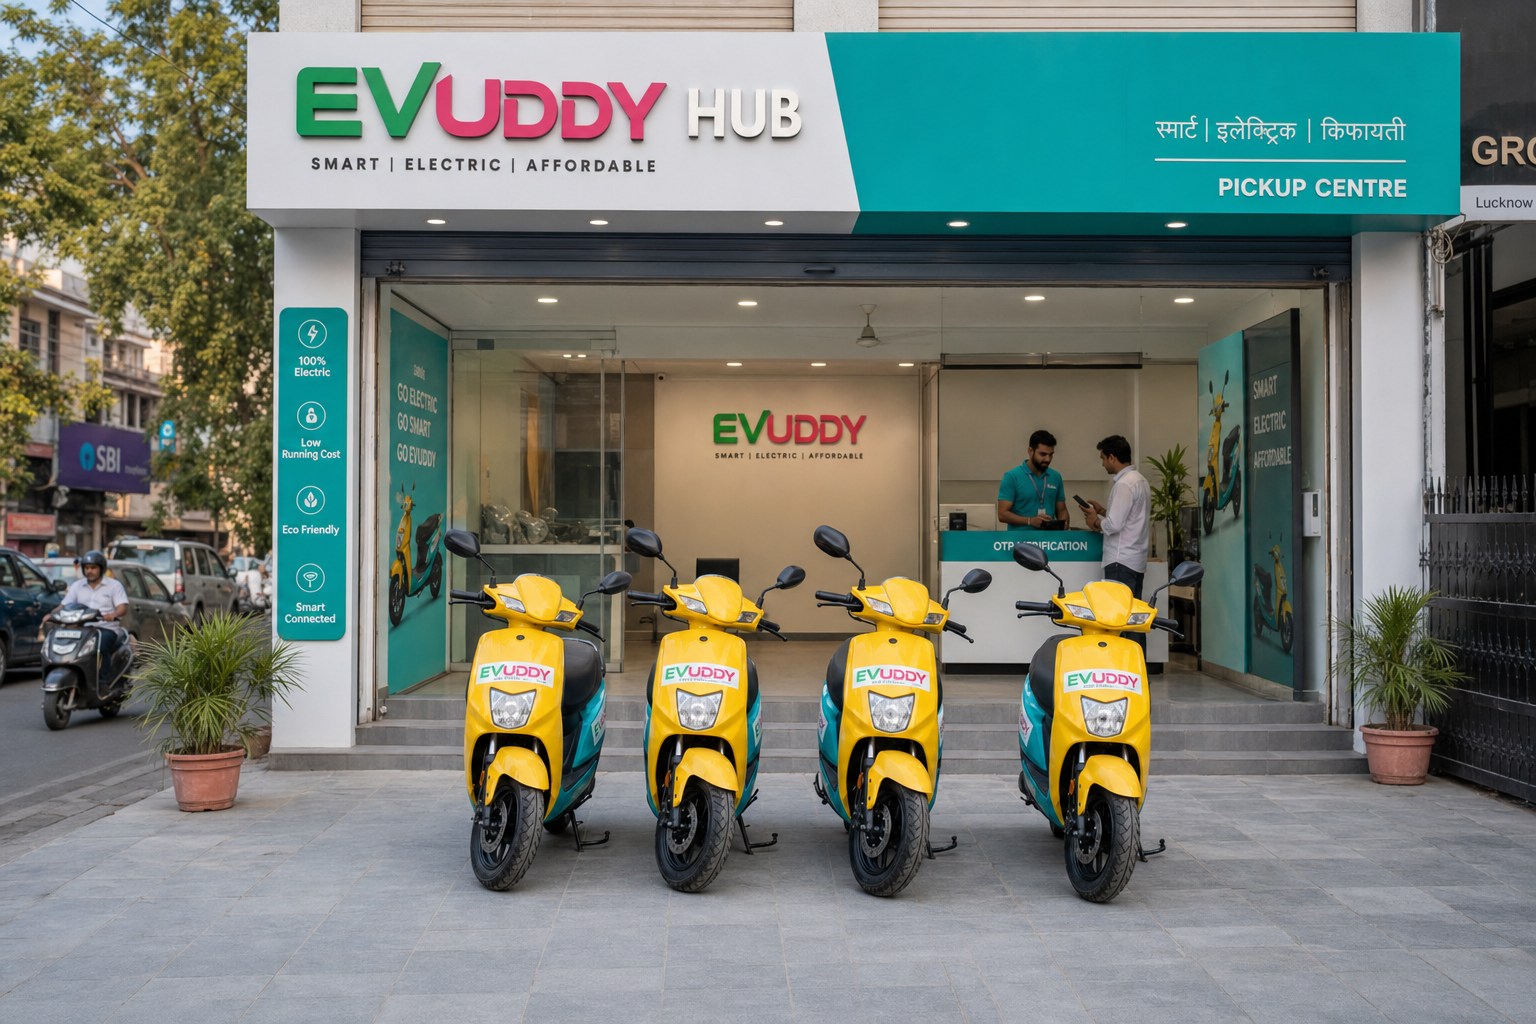
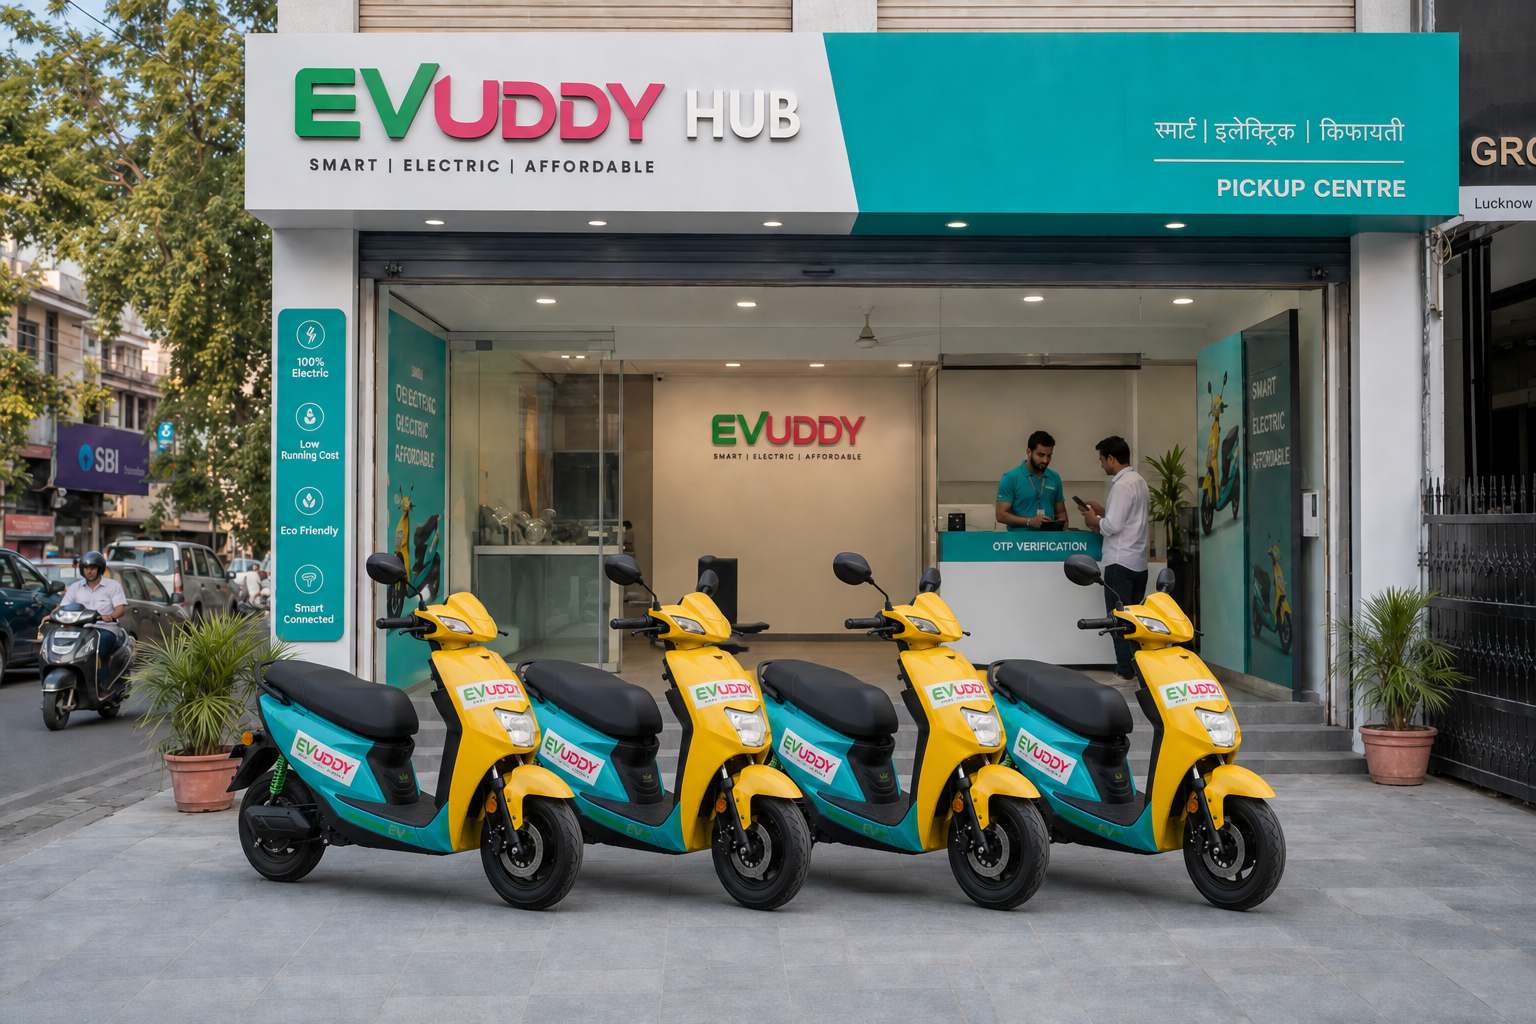
Use the new-vehicle.jpeg scooter with no number plates.
City and evening stills keep that exact yellow-and-teal scooter. Range uses the original file. Hub scooters match the same model with no plates.

diff --git a/src/lib/brandMedia.ts b/src/lib/brandMedia.ts
@@ -6,7 +6,7 @@ export const BRAND = {
   cityCommute: "/brand/scene-city-front.png",
   afterWork: "/brand/scene-after-front.png",
   highway: "/brand/scenic-highway.png",
-  range: "/brand/scene-range-front.png",
+  range: "/new-vehicle.jpeg",
   parked: "/brand/roadside-parked.png",
   houseParked: "/brand/yellow-house-parked.png",
   register: "/brand/scene-register-kyc.png",
